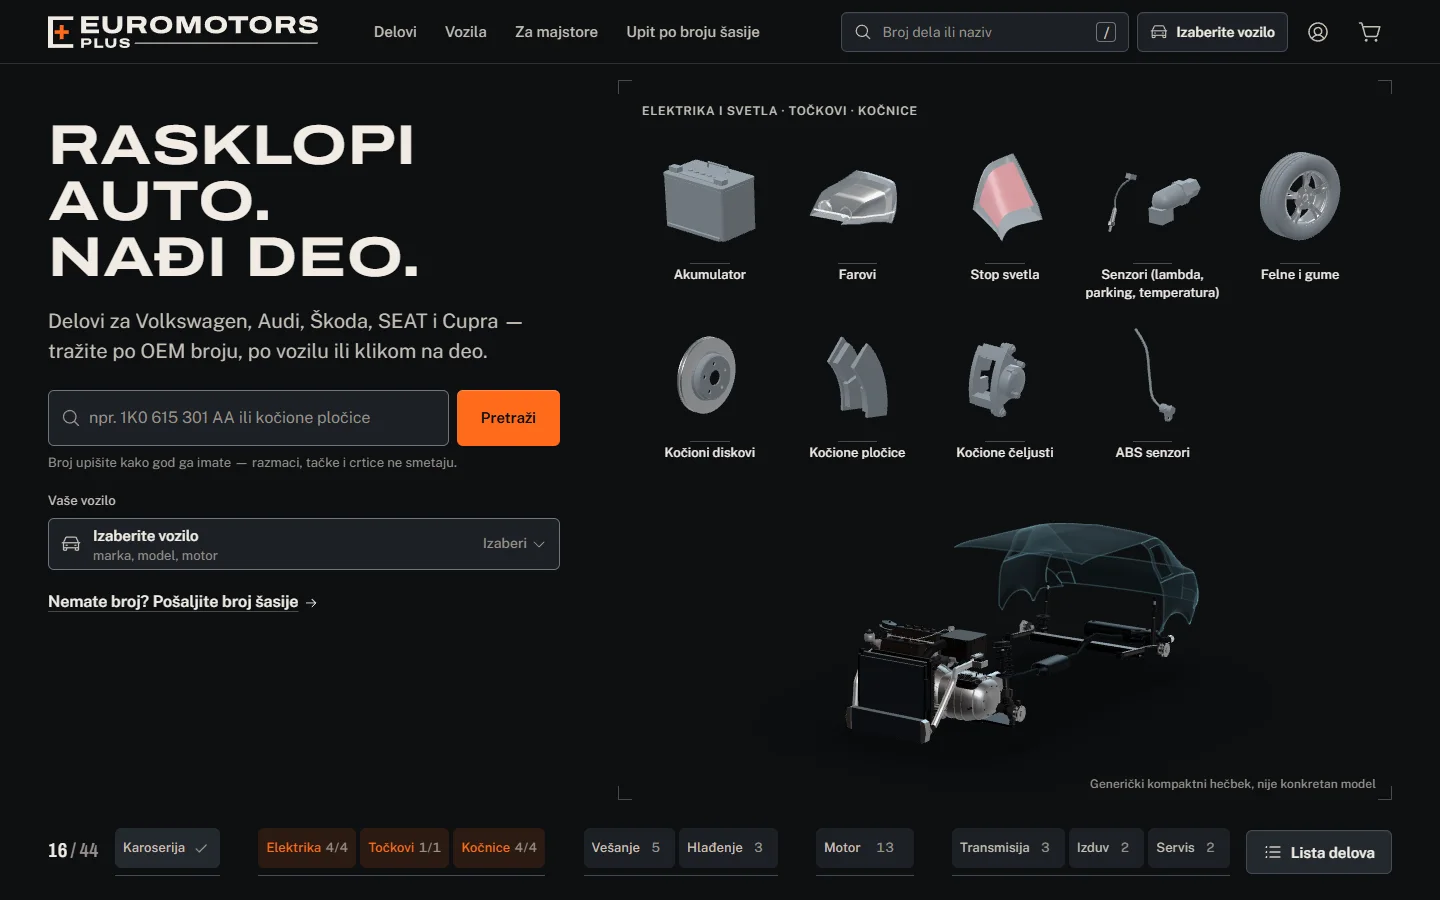
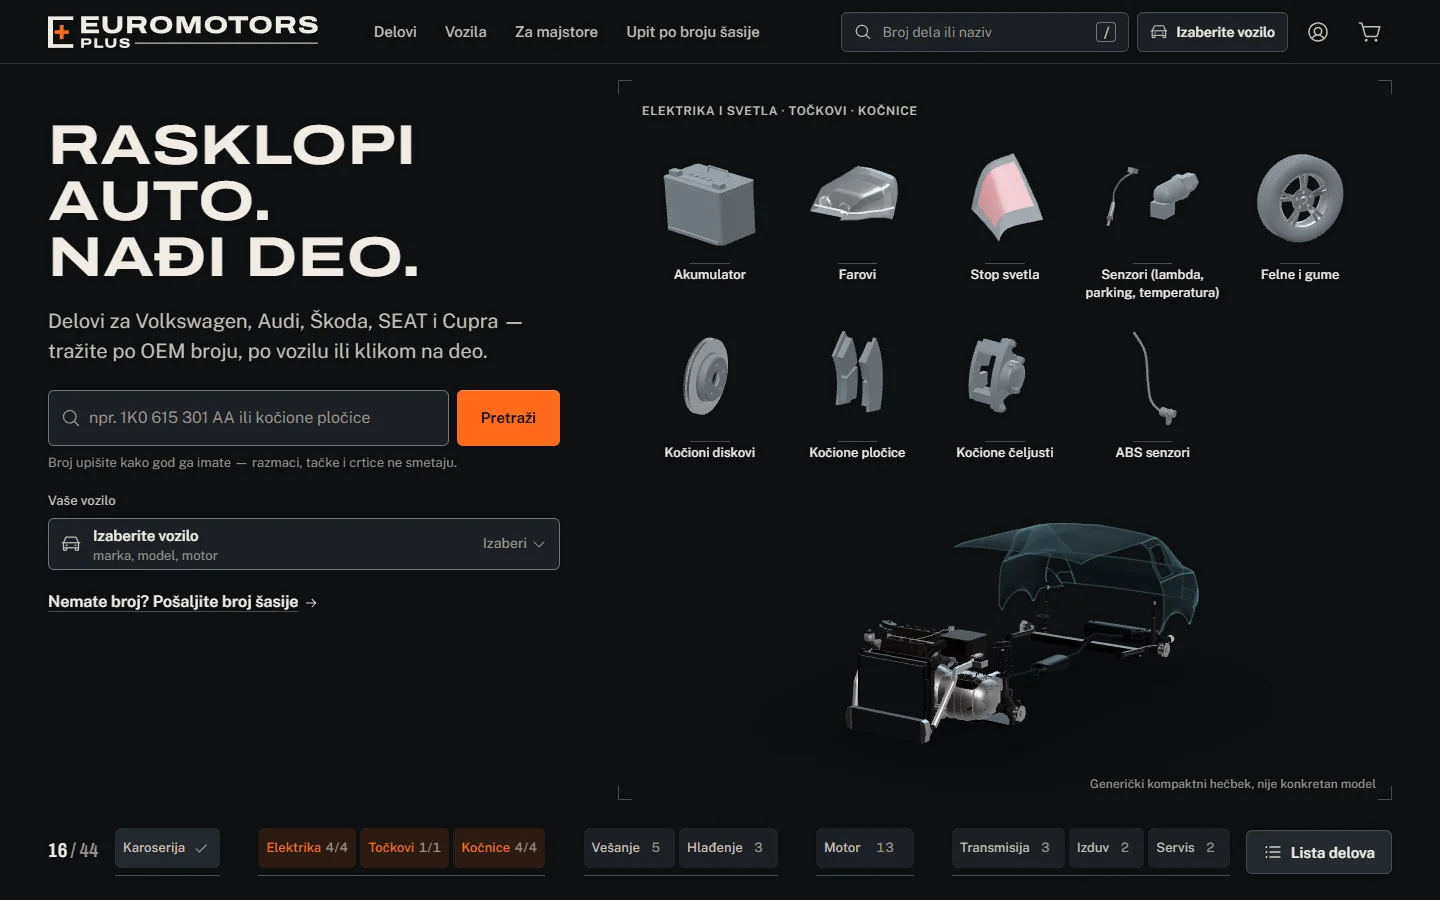
qa(32): the probe checks every scroll sample and counts console errors; the record brought up to date
- scripts/qa/hero-v2-verify.mjs: a sample every 40 px of scroll, taken once the scene has
  caught up, so each one is checked (it used to skip a sample whose text had moved between the
  read and the capture); nothing is sampled past the end of the track; the summary prints the
  samples per direction, how many could not be checked and the console errors per width.
  Final build: 67 + 67 samples at 1440 and 50 + 50 at 390, 0 not checked, 0 px under the note
  or the intro, 0 px on the top rows, 0 console errors.
- HERO-V2 §18.5, DECISIONS D384, PROGRESS, HUMAN-TODO: nine mobile Lighthouse batches on the
  final build (TBT 23 / 29 / 36 / 26 / 157 / 48 / 63 / 44 / 35 ms, the one of 157 ms right
  after GPU captures on a busy machine), two desktop batches, the console-error counts.
- Final screens refreshed from the same run.

diff --git a/docs/3d/HERO-V2.md b/docs/3d/HERO-V2.md
@@ -505,7 +505,7 @@ As of step 32 (the drift and slow-download tests are written and the navigator f
 
 ### 18.5 The owner's review, verified independently (step 32)
 
-The hero was checked again from the outside, without the build's own numbers. `scripts/qa/hero-v2-verify.mjs` drives a real browser on the real GPU at 1440×900 and 390×844: one wheel scroll through the whole track and back in 60 px notches, then every stage at rest. It reads the page's pixels — the tone of every docked part against the field, anything of the scene under a word of text, lit pixels on the first rows of the canvas (a cut car) — and the DOM (navigator, names). Decisions D374–D384. The final screens of every stage at both widths: [`../qa/screens/hero-v2/final/`](../qa/screens/hero-v2/final/).
+The hero was checked again from the outside, without the build's own numbers. `scripts/qa/hero-v2-verify.mjs` drives a real browser on the real GPU at 1440×900 and 390×844: one wheel scroll through the whole track and back in 40 px notches — every notch checked once the scene has caught up — then every stage at rest. It reads the page's pixels — the tone of every docked part against the field, anything of the scene under a word of text, lit pixels on the first rows of the canvas (a cut car) — and the DOM (navigator, names). Decisions D374–D384. The final screens of every stage at both widths: [`../qa/screens/hero-v2/final/`](../qa/screens/hero-v2/final/).
 
 **Found on the build of step 31**
 
@@ -538,13 +538,14 @@ The hero was checked again from the outside, without the build's own numbers. `s
 | Docked part, longer side | 88–104 px | 55–64 px |
 | Part ↔ cell at rest (the cell the DOM has now) · with the float | 0.1 px · ≤ 3.9 px | 0.1 px · ≤ 2.8 px |
 | Scene pixels under a word of the note, the intro, a name or the page heading, at rest | 0 at all 8 stages | 0 at all 8 stages |
-| The same for the note and the intro during the scroll (samples checked of taken) | 0 (85 of 101) | 0 (58 of 87) |
+| The same for the note and the intro during the scroll, every sample checked | 0 in 134 samples (67 forward, 67 back) | 0 in 100 samples (50 forward, 50 back) |
+| Console errors: 3D · reduced motion · no canvas | 0 · 0 · 0 | 0 · 0 · 0 |
 | Lit pixels on the first two rows of the canvas, rest and scroll | 0 | 0 |
 | The car's outline, docked | 459–680 px of an 824 px canvas | 38–224 px of a 652 px canvas, the note above it at 6–22 px |
 | Navigator: scroll · fade · chips outside the row, 8 stages | 0 px · none · 0 (also at 1280, 1366, 1536, 1920) | scrolls; the active cluster's first chip whole |
 | End state | orange fill · outline · filled surface | the same, the third as an icon |
 
-*Samples not checked: the frame had left its sticky place past the end of the track, or the note changed place between reading the layout and capturing it.*
+*A sample is taken every 40 px of scroll, once the scene has caught up with it (a pose is a pure function of the progress, so each is the picture of one progress — a flight is seen at three points or more). Past the end of the track the frame scrolls away with the page and nothing is sampled.*
 
 Frame time, the CPU throttled four times (`hero-frames.mjs --gpu --cpu 4`, a wheel scroll through the whole track; the second column is Chromium's phone emulation, not a phone):
 
@@ -562,12 +563,12 @@ The GPU is a laptop's discrete card and was never the limit; the throttle slows 
 
 | | Performance | Accessibility | Best practices | SEO | LCP | CLS | TBT |
 |---|---|---|---|---|---|---|---|
-| Mobile, the final build, four batches | 98 · 98 · 98 · 98 | 100 | 100 | 100 | 1985 · 2006 · 2030 · 2019 ms | 0.000 | **23 · 29 · 36 · 26 ms** (all 20 runs: 13–87) |
-| Desktop, the final build | 100 | 100 | 100 | 100 | 160 ms | 0.000 | 23 ms (runs 18–147) |
+| Mobile, the final build, nine batches of five | 98 · 98 · 98 · 98 · 95 · 97 · 97 · 97 · 97 | 100 | 100 | 100 | 1985–2093 ms | 0.000 | **23 · 29 · 36 · 26 · 157 · 48 · 63 · 44 · 35 ms** |
+| Desktop, the final build, two batches | 100 · 99 | 100 | 100 | 100 | 160 · 231 ms | 0.000 | 23 · 95 ms |
 | Mobile before D384, five batches | 97 · 94 · 92 · 97 · 96 | 100 | 100 | 100 | 2105–2345 ms | 0.000 | 19 · 136 · 264 · 71 · 132 ms |
 
-- LCP is the poster image at both widths (`car-assembled-m-828.avif`, `car-assembled-1440.avif`). First-load JS 317 KB, as in step 31.
-- **TBT was two-valued, and the cause is removed.** Before: single mobile runs fell in two groups, about 16–135 ms and about 220–415 ms, and one gate batch of five missed the bar of 150 ms (the build of step 31 did the same: 19–824 ms; the hero's own changes added nothing — ten interleaved throttled loads 133 against 130 ms, equal main-thread totals, D381). A long task of 80–115 ms sat within 100 ms of the first paint on either side, and it is blocking time only when it lands after. It was the first layout of „Delovi po sistemima“ — 220 nodes in ten multi-column panels, 7,000 px down a phone's page, the one section of home below the fold that did not skip its layout. It does now (`cv-auto`, D384): four batches of five, every run between 13 and 87 ms.
+- LCP is the poster image at both widths (`car-assembled-m-828.avif`, `car-assembled-1440.avif`). First-load JS 317 KB, as in step 31 — the script also prints its own older budget of 180 KB for it, missed since before v2 (§13.1); it is not one of the category scores and this step did not change it.
+- **TBT was two-valued, and the cause is removed.** Before: single mobile runs fell in two groups, about 16–135 ms and about 220–415 ms, and one gate batch of five missed the bar of 150 ms (the build of step 31 did the same: 19–824 ms; the hero's own changes added nothing — ten interleaved throttled loads 133 against 130 ms, equal main-thread totals, D381). A long task of 80–115 ms sat within 100 ms of the first paint on either side, and it is blocking time only when it lands after. It was the first layout of „Delovi po sistemima“ — 220 nodes in ten multi-column panels, 7,000 px down a phone's page, the one section of home below the fold that did not skip its layout. It does now (`cv-auto`, D384): eight of nine batches of five between 23 and 63 ms. The ninth, 157 ms, was taken right after the GPU captures with the machine still busy (Lighthouse's benchmark index 2900–3800 against 4000 in the others; its runs were 1062, 27, 12, 157 and 162 ms). What is left in a run is one task of hydration and one React render about 3 s after first paint, 70–125 ms each at 4× CPU; neither is the hero's.
 - One real regression was caught on the way and removed: a helper imported from the slot maths put three.js into the first chunk (418 KB, TBT 286 ms). A unit test now guards the boundary (D380).
 
 **Found by the new tests, fixed.** The drift test resizes the phone layout and back. After the way back the scene showed the wrong page for the scroll position: on a touch-only device ScrollTrigger does not measure again when a resize lands on the dimensions it saw at load, so it kept the range of the size in between. The stage now asks for a refresh whenever its own track changes size (D382). And the full suite on the phone layout: the skip link changed the URL and went nowhere when it was activated while the navigator row was still moving to its active cluster — a browser drops a pending jump to a fragment when anything else scrolls first. The link now makes the jump itself if the heading is not on screen two frames later (D383).

diff --git a/docs/PROGRESS.md b/docs/PROGRESS.md
@@ -286,8 +286,8 @@
 - Read first: `docs/3d/HERO-V2.md` (§18 and §18.4), steps 30–31 here, the screens in `docs/qa/screens/hero-v2/`. Then the hero was checked from the outside with a new probe, `scripts/qa/hero-v2-verify.mjs` (real GPU, 1440×900 and 390×844, one wheel scroll through the track and back, every stage at rest; it reads the page's pixels and DOM, not the scene's own report). Found on the build of step 31: 35 of 44 docked parts under 3:1 against the field at 1440 and 29 at 390 (battery 1.7, pads 1.9, calipers 2.2, thermostat 2.5, fluids 2.9); on the phone the roof 2 px from the top and cut by the header, the note „Generički kompaktni hečbek…“ 12–15 px into the car on pages 1–3, panels up to 102 px out of the top of the frame in flight, the intro crossed by the car; the 1440 navigator scrolling by 3–22 px on four of eight stages with both ends under a fade.
 - Done (D374–D384; `docs/3d/HERO-V2.md` §18.5 is the record): (1) dark parts — the docked exposure floor follows the base colour, with a deeper shading and a cool edge light; lighter primer for body panels; a thumbnail in a slot loses its contact shadow and is lifted by an SVG filter; no frames, no backgrounds. (2) Phone — the note has a line of its own above the car, the car is fitted into its band with headroom, the intro leaves when the car starts to move, a flight is composed on screen (straight, half the lift, where the grid is under the car). (3) Navigator — a chip never changes width, the row fits whole from 1280 px, an edge fades only where chips are hidden. (4) End state — primary · secondary · quiet. (5) The gaps of §18.4 — `tests/e2e/hero-review.spec.ts`: drift after a resize, a late font, a dialog and the part panel (≤ 4 px), and a slow model download (thumbnails first, then the 3D in the same cells, zero layout shift, the car's box within 3 px of the poster's).
 - Found on the way and fixed: a helper imported from the slot maths put three.js into the first-load JS (317 → 418 KB, TBT 286 ms) — moved, and a unit test guards the boundary (D380); on a touch-only device ScrollTrigger skips a resize back to the dimensions it saw at load, so the scene showed the wrong page for the scroll position — the stage refreshes when its track changes size (D382, found by the new drift test); on the phone layout the skip link changed the URL and went nowhere when activated while the navigator row was moving to its active cluster (a browser drops a pending jump to a fragment when anything else scrolls first) — the link now makes the jump itself when the heading is not on screen two frames later (D383, found by the full e2e run).
-- Measured after, production build, this PC (RTX 4060 Laptop through ANGLE/D3D11): every docked part 3.28–8.24 : 1 at 1440 and 3.33–8.52 : 1 at 390 (the five named: 4.2 · 3.3 · 4.0 · 5.0 · 4.4 and 5.1 · 3.7 · 5.1 · 5.8 · 4.5); part ↔ cell 0.1 px at rest (≤ 3.9 / 2.7 px with the float); no pixel of the scene under a word of the note, the intro, a name or the page heading at any rest, none under the note or the intro in 143 checked scroll samples; nothing on the canvas's first rows; the navigator whole at 1280, 1366, 1440, 1536 and 1920 px at every stage. Frame time with the CPU throttled four times (`hero-frames.mjs --gpu --cpu 4`): 1440 — median 16.7 ms, p95 33.3 ms, worst 50 ms, 3.1 % over 33 ms; 390 emulated — median 16.7 ms, p95 16.8 ms, worst 50 ms, 1.3 % over 33 ms. That is Chromium's phone emulation on a laptop GPU: no phone was measured.
-- Lighthouse on home, the final build (`tests/lighthouse/run.mjs --runs 5 --throttling devtools`): desktop 100 · 100 · 100 · 100, LCP 160 ms, TBT 23 ms; mobile, four batches: 98 · 100 · 100 · 100 in each, LCP 1985 / 2006 / 2030 / 2019 ms, CLS 0, **TBT 23 / 29 / 36 / 26 ms**, all 20 runs between 13 and 87 ms. LCP is the poster at both widths. First-load JS 317 KB, as before.
+- Measured after, production build, this PC (RTX 4060 Laptop through ANGLE/D3D11): every docked part 3.28–8.24 : 1 at 1440 and 3.33–8.52 : 1 at 390 (the five named: 4.2 · 3.3 · 4.0 · 5.0 · 4.4 and 5.1 · 3.7 · 5.1 · 5.8 · 4.5); part ↔ cell 0.1 px at rest (≤ 3.9 / 2.7 px with the float); no pixel of the scene under a word of the note, the intro, a name or the page heading at any rest, none under the note or the intro in 234 scroll samples (one every 40 px, forward and back, every one checked); 0 console errors in 3D, reduced motion and without a canvas, at both widths; nothing on the canvas's first rows; the navigator whole at 1280, 1366, 1440, 1536 and 1920 px at every stage. Frame time with the CPU throttled four times (`hero-frames.mjs --gpu --cpu 4`): 1440 — median 16.7 ms, p95 33.3 ms, worst 50 ms, 3.1 % over 33 ms; 390 emulated — median 16.7 ms, p95 16.8 ms, worst 50 ms, 1.3 % over 33 ms. That is Chromium's phone emulation on a laptop GPU: no phone was measured.
+- Lighthouse on home, the final build (`tests/lighthouse/run.mjs --runs 5 --throttling devtools`): desktop 100 · 100 · 100 · 100, LCP 160 ms, TBT 23 ms; mobile, nine batches of five: performance 95–98 · 100 · 100 · 100, LCP 1985–2093 ms, CLS 0, **TBT 23 / 29 / 36 / 26 / 157 / 48 / 63 / 44 / 35 ms** — the one of 157 ms right after GPU captures with the machine still busy (benchmark index 2900–3800 against 4000). A second desktop batch: 99, TBT 95 ms. LCP is the poster at both widths. First-load JS 317 KB, as before (the script's older 180 KB budget for it was missed before v2 and is unchanged).
 - Verified: `npx tsc --noEmit` exit 0 · `npm run lint` exit 0 (0 errors; the 13 warnings are in git-ignored scratch scripts) · `npm test` 75 files passed + 1 skipped, 1,357 tests passed + 4 skipped · `npm run build` exit 0 (`NEXT_PUBLIC_TEST_HOOKS=1 REVALIDATE_SECRET=e2e-revalidate-secret`) · `npx playwright test` on that build, with the seeded dev owner from `pipeline/env/` in the environment so the admin tests run too: **210 passed, 0 failed, 32 skipped** (29.0 min; the 32 are skipped by design). Two earlier runs of the session: one with 2 failures, both recorded above (a fault in the new drift test, and the skip link, D383), and one of 179 passed without the admin account · `node scripts/qa/hero-v2-verify.mjs` „all checks passed“ · the 16 final screens looked at on contact sheets (`docs/qa/screens/hero-v2/final/`), the fallbacks (reduced motion, no canvas) and 820×1180 looked at too.
 - Home TBT, found and fixed at the cause (D381, D384): before the fix five gate batches gave 19 / 136 / 264 / 71 / 132 ms — single runs in two groups, about 16–135 ms and about 220–415 ms, on the build of step 31 as well (19–824 ms). The hero's own changes added nothing (ten interleaved throttled loads 133 against 130 ms, equal main-thread totals). A task of 80–115 ms sat within 100 ms of the first paint on either side: the first layout of „Delovi po sistemima“, the one section of home below the fold that did not skip its layout until it nears the viewport. It is `cv-auto` now, with its measured height as the intrinsic size.
 - Not verified: frame time on a real phone.

diff --git a/docs/DECISIONS.md b/docs/DECISIONS.md
@@ -472,4 +472,4 @@ Guest cart token in localStorage (strictly necessary) · vehicle filter carried 
 | 2026-10-13 | 32 | D381 — **Home TBT was two-valued in Lighthouse, and the hero's own changes did not move it** (the cause and the fix are D384). Gate batches of five runs (mobile, applied throttling) before D384: 19, 136, 264, 71 and 132 ms; single runs fell in two groups, about 16–135 ms and about 220–415 ms. The build of step 31 did the same in the same sessions (19–824 ms). This step's hero changes against step 31, interleaved: 10 throttled loads (4× CPU, slow 4G) TBT 133 against 130 ms; main-thread totals of 6 loads — layout 322 / 321 ms, style 236 / 229 ms, script 793 / 806 ms, all tasks 2224 / 2235 ms; two Lighthouse batches of 7 rounds gave 223 against 130 ms and then 168 against 246 ms. | A batch that passes and a batch that fails on the same build say nothing about a change; the comparison had to be interleaved and counted on the main thread before the number could be trusted either way. | Reporting the best batch only; trimming hero markup until a batch passes. |
 | 2026-10-13 | 32 | D382 — **The stage refreshes the scroll range when its own track changes size.** A ResizeObserver on the track calls `requestScrollTriggerRefresh()` on every size after the first. | Found by the new drift test: on a touch-only device ScrollTrigger skips a resize that lands on the dimensions it saw at load (its guard against the URL bar; `ignoreMobileResize` is on where `isTouch === 1`). After 390 → 430 → 390 px it kept the range measured at 430, the same scroll position meant another progress, and the next refresh (a late font) moved the grid from page 2 to page 3 under the visitor. The track's height does not follow the URL bar (it is `svh` plus `vh`), so the observer fires on real resizes only. | `ScrollTrigger.config({ ignoreMobileResize: false })` (global: every trigger of the site would refresh on each URL-bar move); a window `resize` listener (the same event ScrollTrigger already filters). |
 | 2026-10-13 | 32 | D383 — **The skip link makes its own jump when the browser drops it.** The link stays a plain anchor to `#systems-title` — the URL and the place Tab continues from are the browser's — and two frames after a click it scrolls the heading into view if it is not on screen. | Found by the full e2e run on the phone layout, every time: a browser gives up a pending jump to a fragment when anything else scrolls first, and the navigator row moving to its active cluster (a smooth scroll of a few hundred ms after each page change) is such a scroll. Activated in that moment, „Preskoči 3D prikaz“ changed the URL and the page stayed where it was. | Moving the navigator row without a smooth scroll (the row's motion is what tells a phone user where they are; and any other scroll would do the same); `preventDefault` with a hand-made scroll and focus (it gives up the browser's own handling of where Tab continues). |
-| 2026-10-13 | 32 | D384 — **„Delovi po sistemima“ skips its layout until it nears the viewport, like every other section of home below the fold.** `SystemsIndex` gets `cv-auto` with its measured height as the intrinsic size (2550 px, 1560 px from 768 px, 1220 px from 1280 px). | It was the cause of the two-valued TBT (D381). A long task of 80–115 ms sat within 100 ms of the first paint on either side: before it, it is not blocking time; after it, it is, and a second one follows. The sections of home were measured one by one: all are `cv-auto` and cost nothing at load, except the hero (311 nodes) and this one — 220 nodes, 44 links in ten multi-column panels, 7,000 px down a phone's page — whose first layout was that task. After: four mobile gate batches of five, TBT medians 23, 29, 36 and 26 ms, every one of the 20 runs between 13 and 87 ms, performance 98; desktop 100, TBT 23 ms. The skip link's jump into the section, the reveal of its panels and the anchors are covered by the same e2e tests as before. | Splitting the section's markup (fewer nodes, the same task); `content-visibility: hidden` until scrolled (out of the accessibility tree and of find-in-page); leaving it, since the gate passed in four batches of five (a bar met by luck of timing is not met). |
+| 2026-10-13 | 32 | D384 — **„Delovi po sistemima“ skips its layout until it nears the viewport, like every other section of home below the fold.** `SystemsIndex` gets `cv-auto` with its measured height as the intrinsic size (2550 px, 1560 px from 768 px, 1220 px from 1280 px). | It was the cause of the two-valued TBT (D381). A long task of 80–115 ms sat within 100 ms of the first paint on either side: before it, it is not blocking time; after it, it is, and a second one follows. The sections of home were measured one by one: all are `cv-auto` and cost nothing at load, except the hero (311 nodes) and this one — 220 nodes, 44 links in ten multi-column panels, 7,000 px down a phone's page — whose first layout was that task. After: nine mobile gate batches of five, TBT medians 23, 29, 36, 26, 157, 48, 63, 44 and 35 ms, performance 95–98; desktop 100 and 99, TBT 23 and 95 ms. The batch of 157 ms was taken right after GPU captures with the machine still busy (benchmark index 2900–3800 against 4000; runs 1062, 27, 12, 157, 162 ms). What is left in a run is hydration and one React render about 3 s after first paint, 70–125 ms each at 4× CPU, neither of them the hero's. The skip link's jump into the section, the reveal of its panels and the anchors are covered by the same e2e tests as before. | Splitting the section's markup (fewer nodes, the same task); `content-visibility: hidden` until scrolled (out of the accessibility tree and of find-in-page); leaving it, since the gate passed in four batches of five (a bar met by luck of timing is not met). |

diff --git a/docs/HUMAN-TODO.md b/docs/HUMAN-TODO.md
@@ -312,5 +312,5 @@ Ostaje za vas:
 - [ ] **[P1] Pogledajte početnu stranu na svom računaru i telefonu** i javite da li su delovi sada dovoljno svetli i da li vam odgovara natpis iznad auta na telefonu.
 - [ ] **[P1] Provera na pravom telefonu srednje klase.** Brzina je i dalje izmerena samo na računaru, sa usporenim procesorom. Pravi telefon nije izmeren.
 - [ ] **[P2] Mali telefoni.** Na telefonima sa niskim ekranom (visina oko 650 px) auto je vrlo mali iznad mreže delova. Ništa se ne seče i ne preklapa. Ako želite da auto tamo bude veći, mreža mora da bude manja; javite šta vam je važnije.
-- Brzina učitavanja početne strane na telefonu je popravljena usput: merenje „blokiranja“ strane je ranije davalo čas oko 50 ms, čas oko 300 ms (granica je 150 ms). Uzrok je bio odeljak „Delovi po sistemima“ ispod 3D prikaza, koji se računao odmah pri učitavanju iako je daleko ispod ekrana. Sada je u četiri serije merenja između 23 i 36 ms. Ništa se ne vidi drugačije.
+- Brzina učitavanja početne strane na telefonu je popravljena usput: merenje „blokiranja“ strane je ranije davalo čas oko 50 ms, čas oko 300 ms (granica je 150 ms). Uzrok je bio odeljak „Delovi po sistemima“ ispod 3D prikaza, koji se računao odmah pri učitavanju iako je daleko ispod ekrana. Sada je u osam od devet serija merenja između 23 i 63 ms (jedna serija, merena dok je računar bio zauzet, dala je 157 ms). Ništa se ne vidi drugačije.
 - Greška sa kolačićima iz tačke 19 („Odbij sve“ pomeri stranu na dno) i dalje nije ispravljena; nije deo 3D prikaza.
